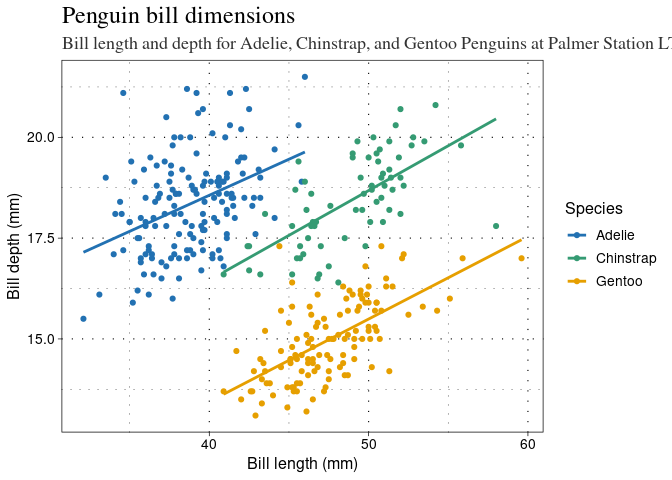
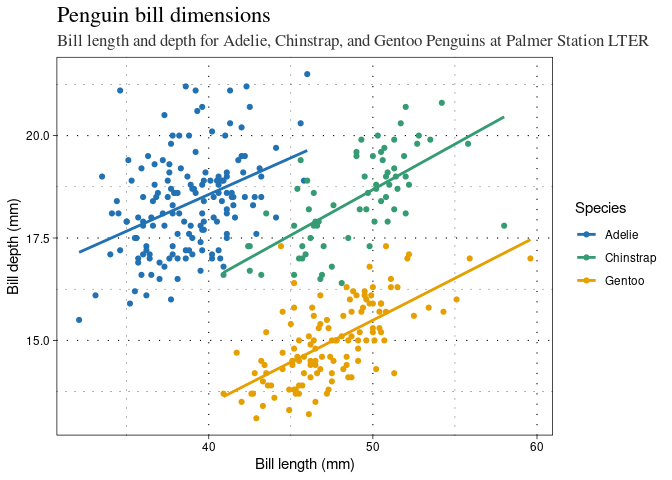
Rebuild README
Update README with new text size.

diff --git a/README.md b/README.md
@@ -32,6 +32,12 @@ library(ggmccalllab)
 library(palmerpenguins)
 ```
 
+## Example plot
+
+As an example, we recreate the **Bill length vs. depth** example from
+the `palmerpenguins` article:
+<https://allisonhorst.github.io/palmerpenguins/articles/examples.html>
+
 ``` r
 ggplot(
   penguins,
